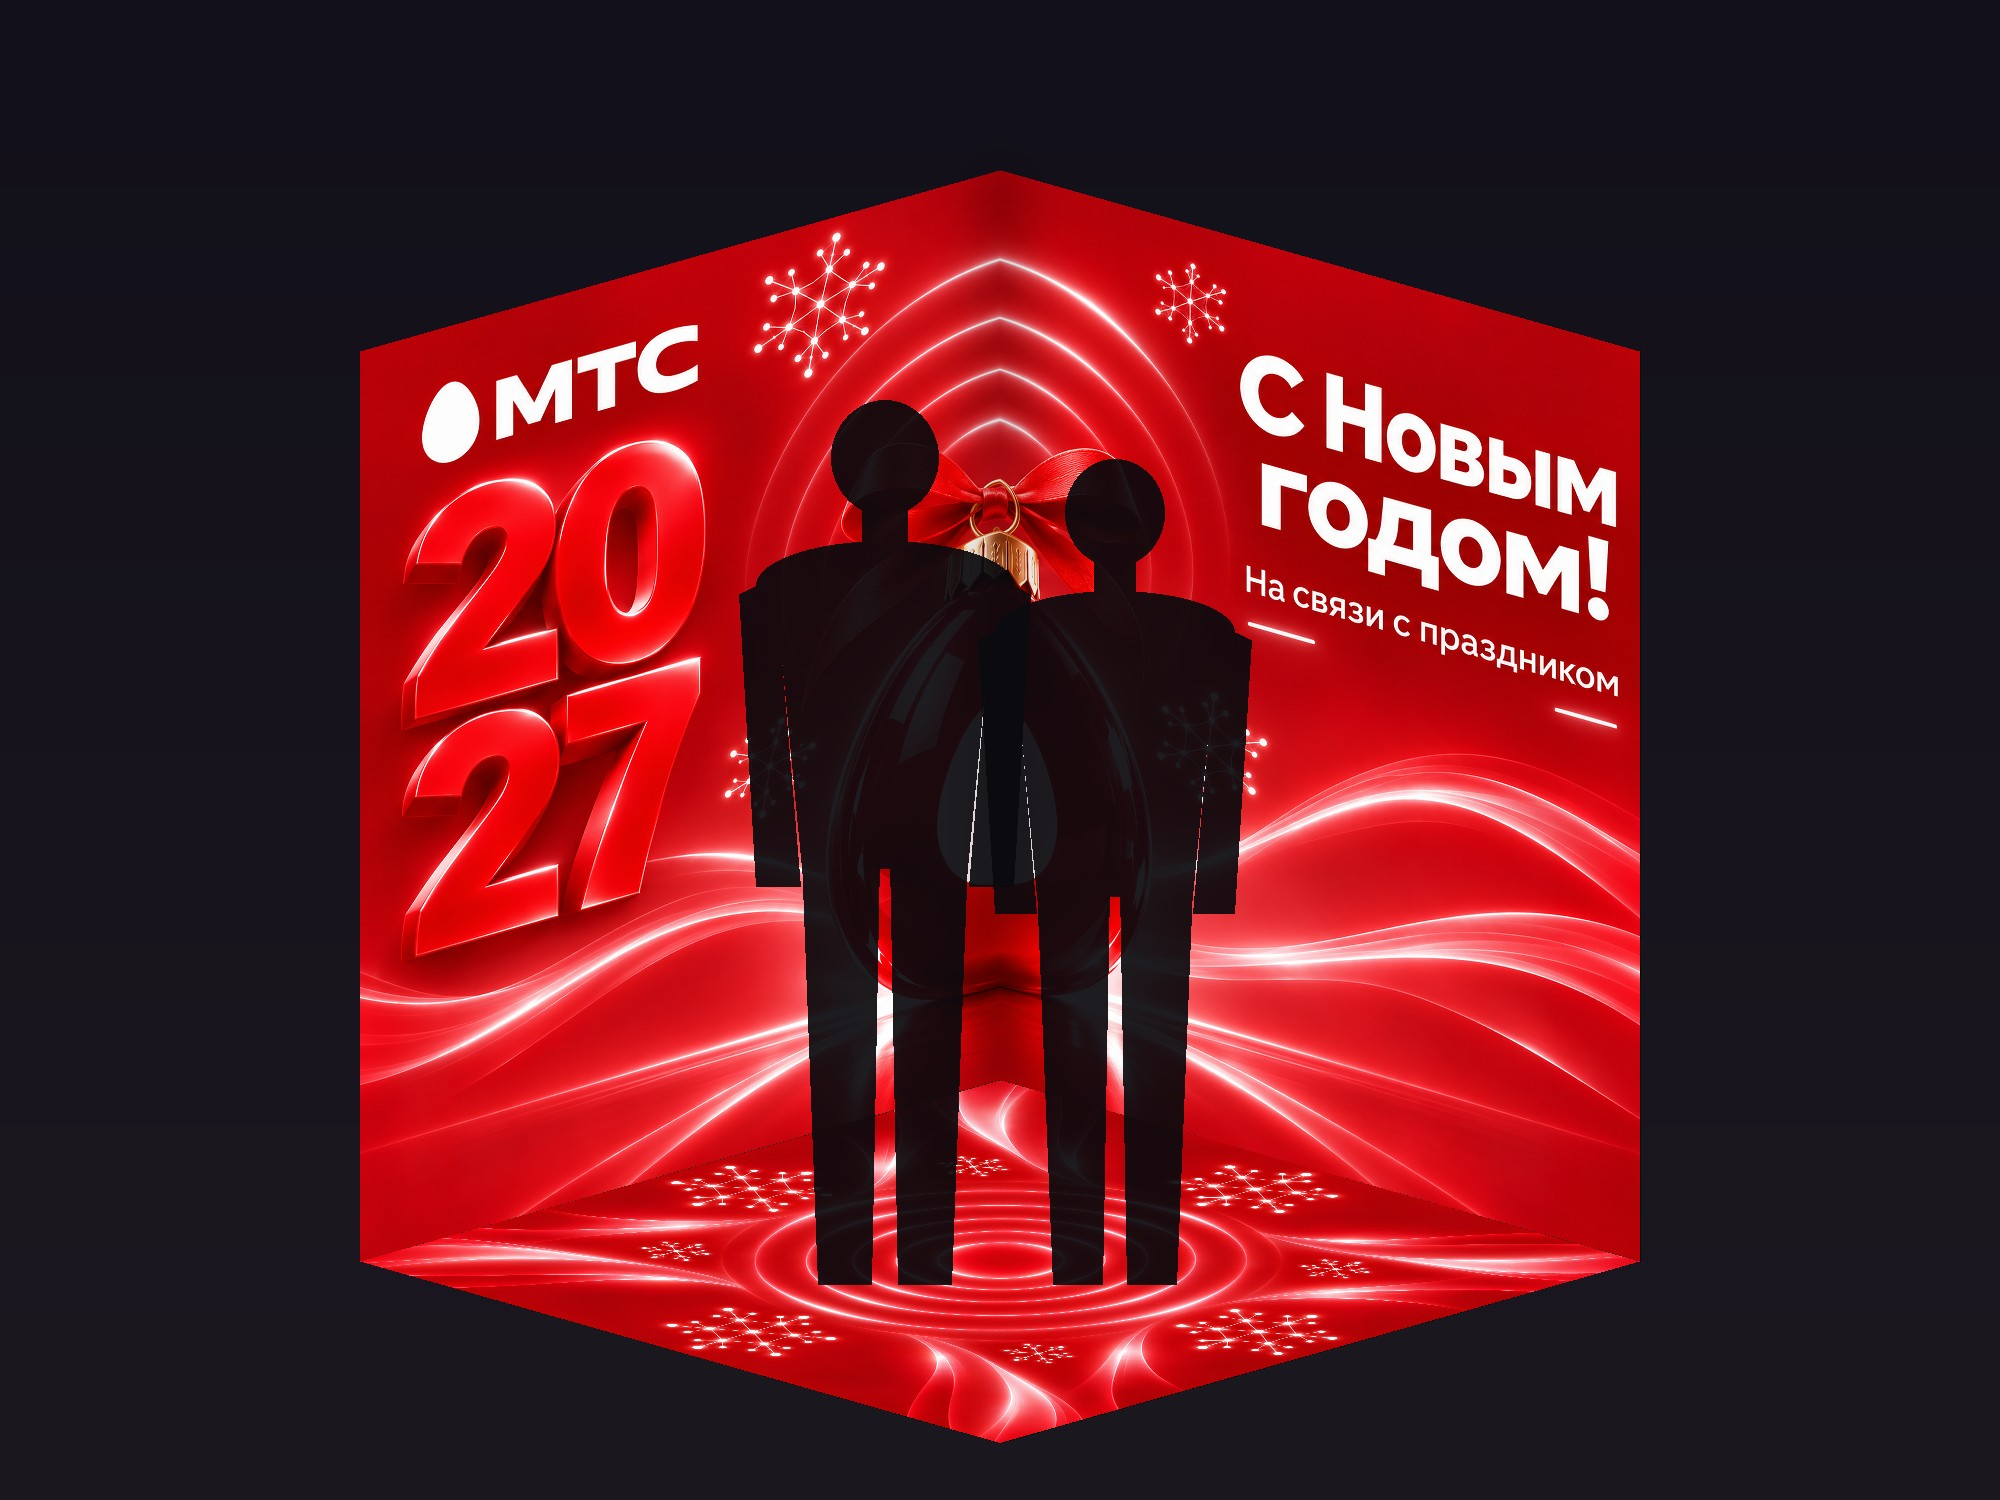
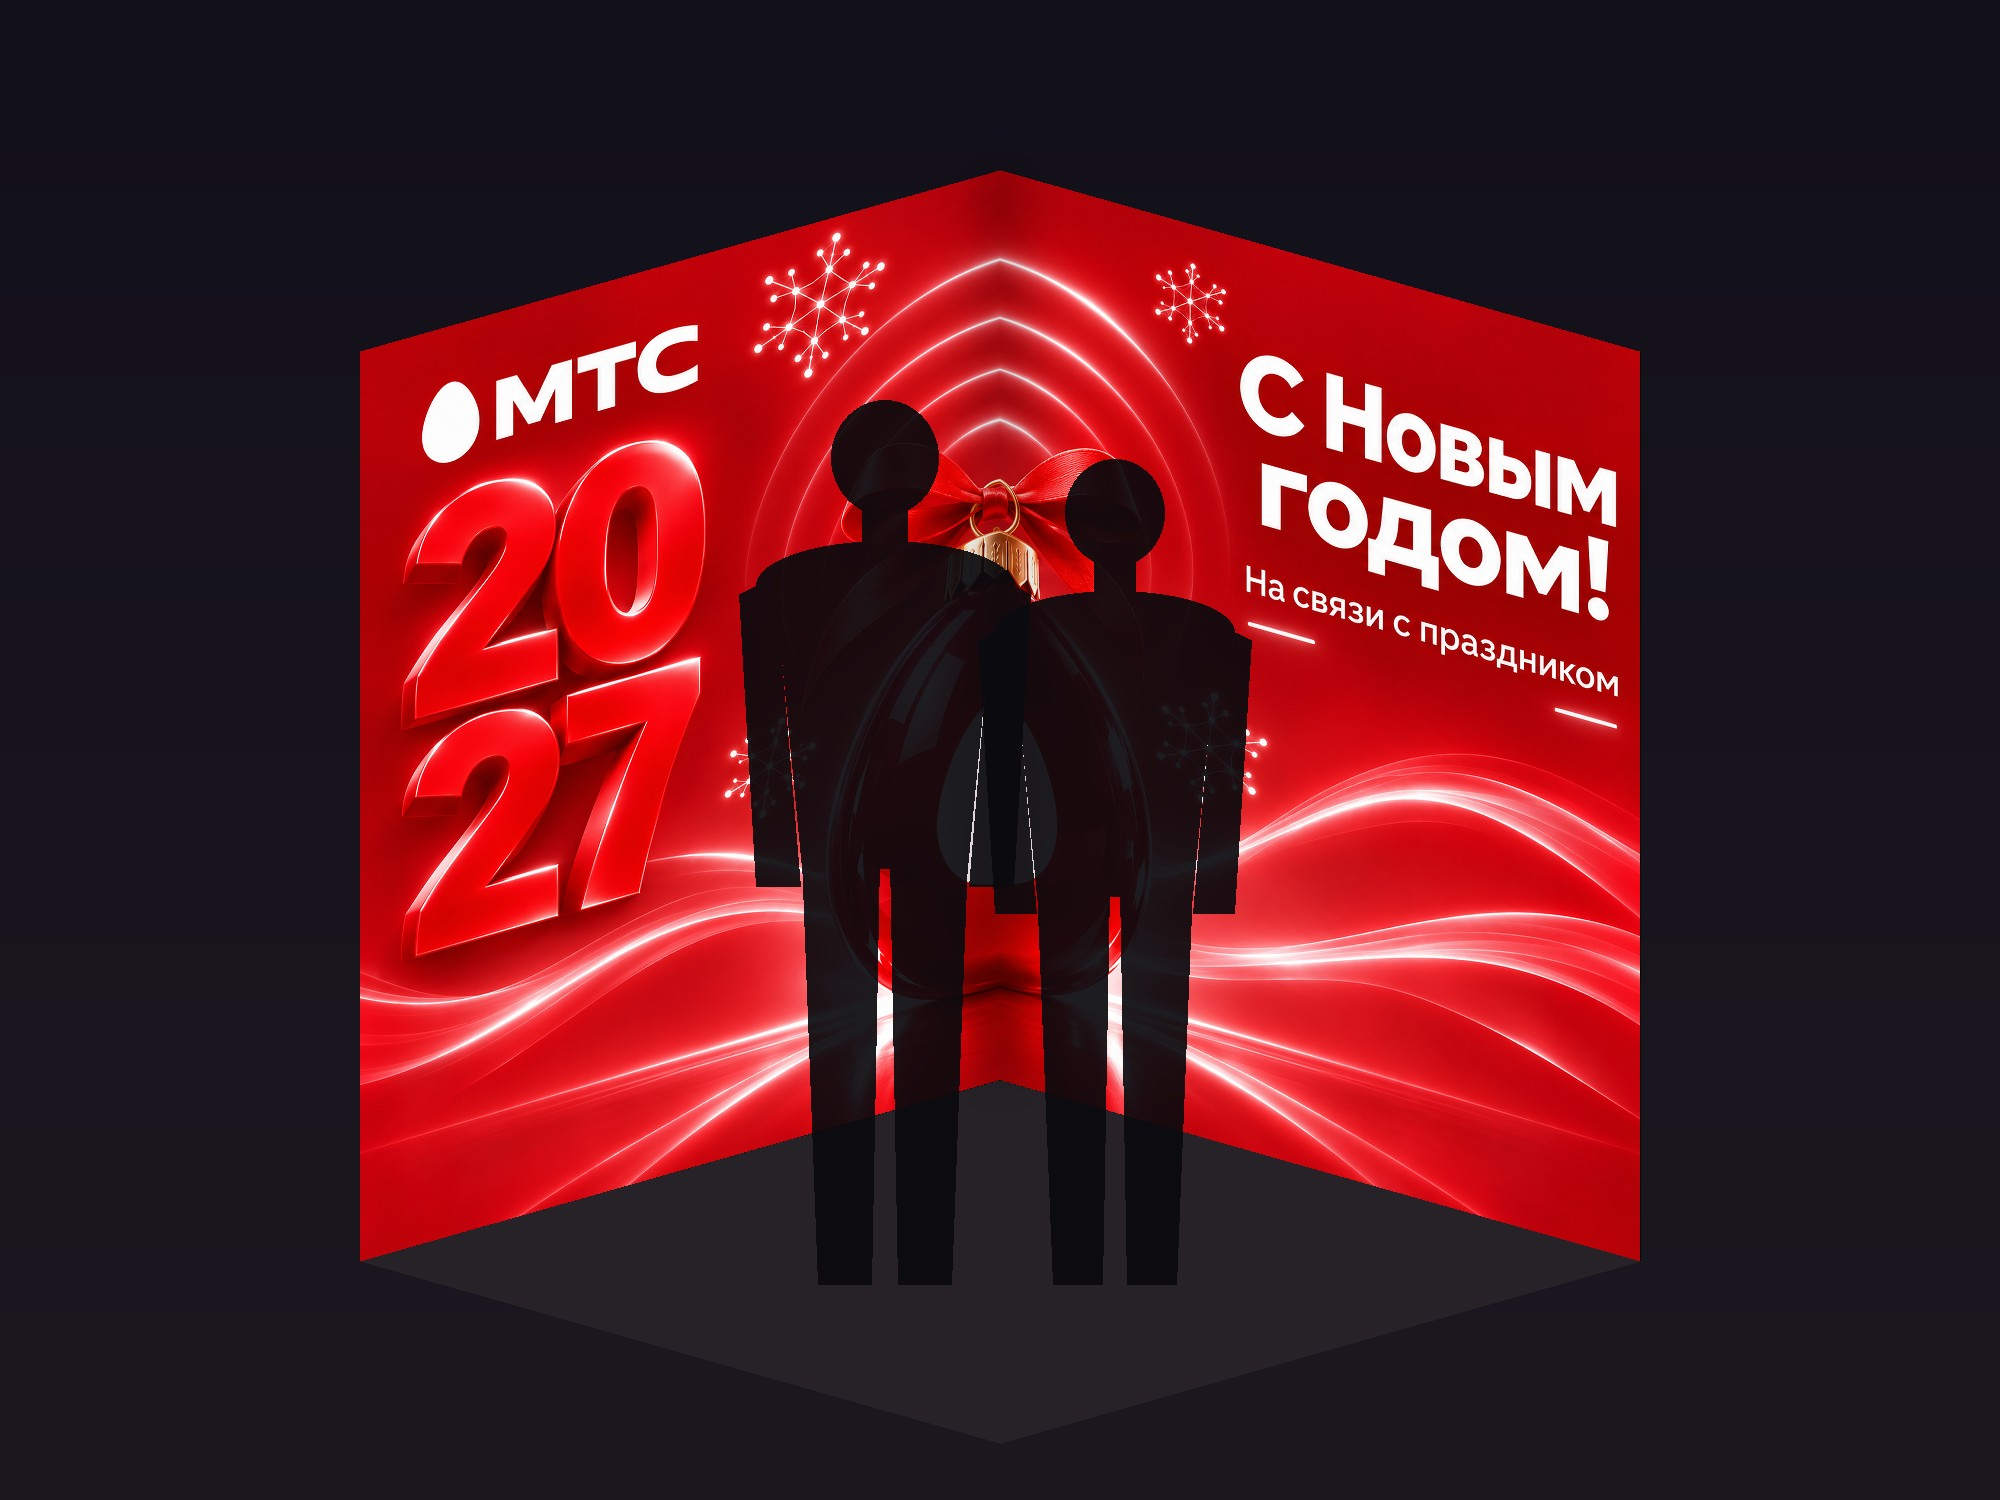
Drop floor from corner photozone package (walls only)
Claude-Session: https://claude.ai/code/session_01T44TLSfCmAKfryzWGxN741

Changed region(s): [[0.186, 0.7053, 0.806, 0.9813]]

diff --git a/led_photozone/mockup.py b/led_photozone/mockup.py
@@ -1,5 +1,5 @@
 """Нарезка 3:2 картинки на две стены + макет угловой фотозоны с силуэтами людей.
-python3 mockup.py walls_3x2.png floor_1x1.png out_prefix
+python3 mockup.py walls_3x2.png floor_1x1.png|- out_prefix   ('-' = без пола)
 """
 import sys
 import numpy as np
@@ -7,7 +7,7 @@ from PIL import Image, ImageDraw, ImageFilter
 
 walls_p, floor_p, out = sys.argv[1:4]
 walls = Image.open(walls_p).convert('RGB')
-floor = Image.open(floor_p).convert('RGB')
+floor = None if floor_p == '-' else Image.open(floor_p).convert('RGB')
 
 # --- нарезка под экраны: каждая стена 1,5 x 2,0 м (3:4) ---
 W, H = walls.size
@@ -17,8 +17,9 @@ if W != target_w:  # подрезаем до точного 3:2
     walls = walls.crop((x0, 0, x0 + target_w, H)); W = target_w
 L = walls.crop((0, 0, W // 2, H)).resize((1080, 1440), Image.LANCZOS)
 R = walls.crop((W // 2, 0, W, H)).resize((1080, 1440), Image.LANCZOS)
-F = floor.resize((1080, 1080), Image.LANCZOS)
-L.save(f'{out}_wall_LEFT_1080x1440.png'); R.save(f'{out}_wall_RIGHT_1080x1440.png'); F.save(f'{out}_floor_1080x1080.png')
+L.save(f'{out}_wall_LEFT_1080x1440.png'); R.save(f'{out}_wall_RIGHT_1080x1440.png')
+if floor is not None:
+    F = floor.resize((1080, 1080), Image.LANCZOS); F.save(f'{out}_floor_1080x1080.png')
 
 
 def coeffs(dst, src):  # перспективное преобразование: dst-квадрат -> src
@@ -50,7 +51,10 @@ floor_q = [(cx, mid), (cx + lw, mid + depth * 0.55), (cx, mid + depth * 1.1), (c
 for img, q in [(L, left_q), (R, right_q)]:
     o, m = warp(img, q, S); canvas.paste(o, (0, 0), m)
 # пол: квадрат повёрнут так, что его угол уходит в сгиб
-o, m = warp(F.rotate(0), floor_q, S); canvas.paste(o, (0, 0), m)
+if floor is not None:
+    o, m = warp(F, floor_q, S); canvas.paste(o, (0, 0), m)
+else:  # обычный пол зала
+    ImageDraw.Draw(canvas).polygon(floor_q, fill=(38, 34, 40))
 # лёгкая тень в углу
 sh = Image.new('L', S, 0); ImageDraw.Draw(sh).line([(cx, top), (cx, mid)], fill=90, width=30)
 canvas.paste((0, 0, 0), (0, 0), sh.filter(ImageFilter.GaussianBlur(25)))
